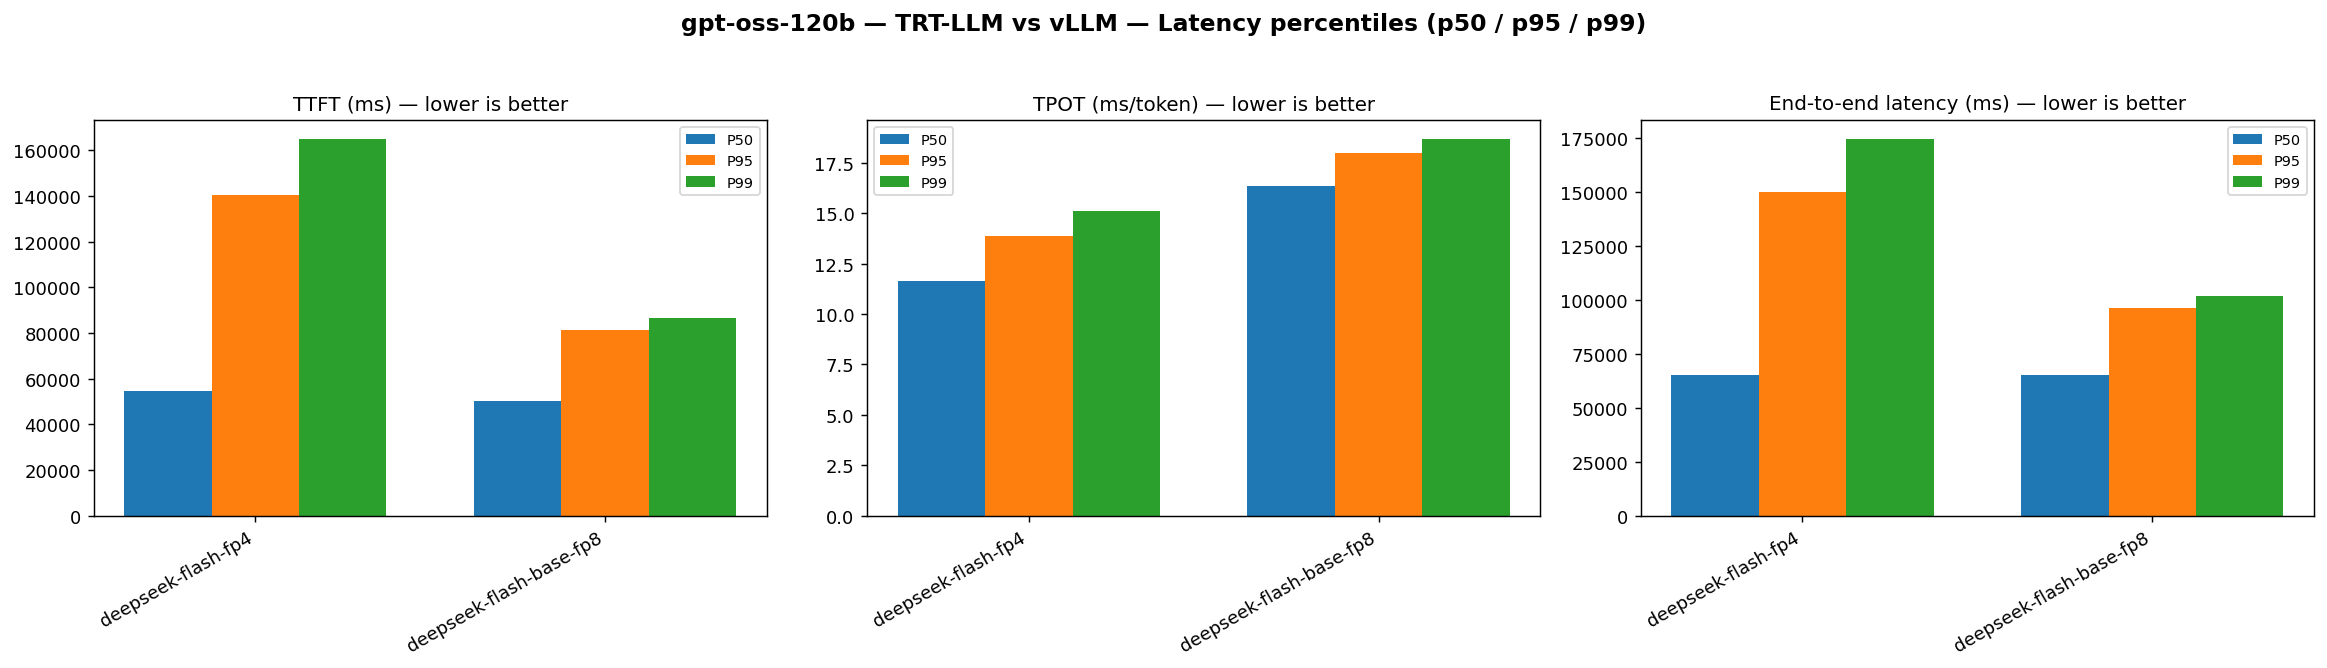
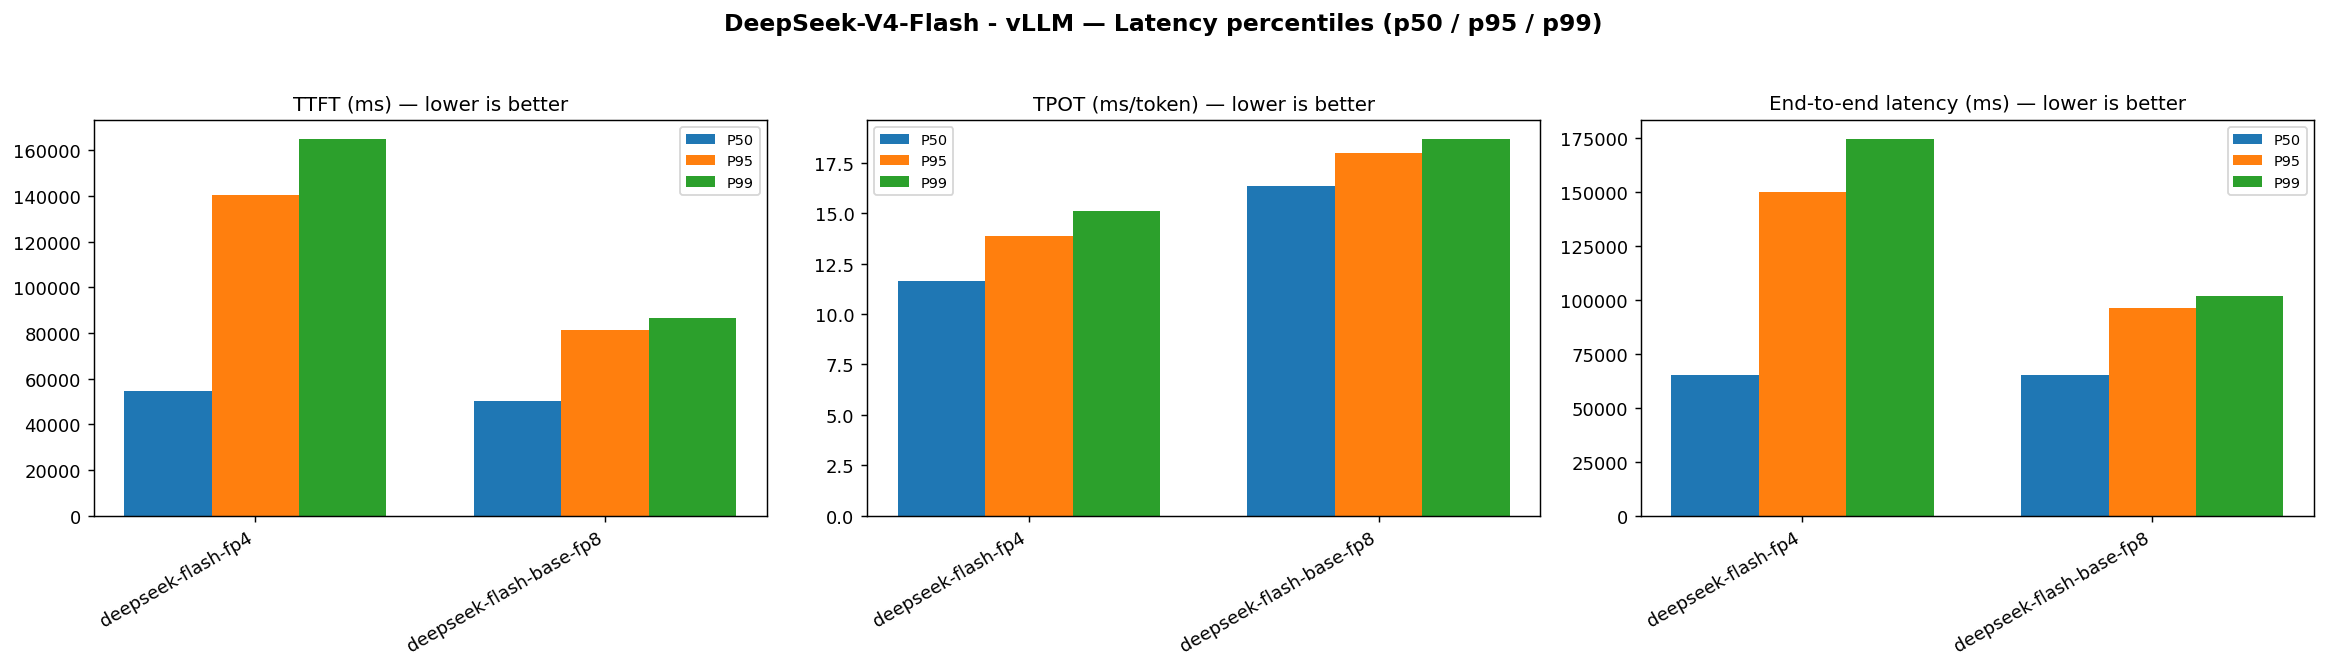
wip

Changed region(s): [[0.2785, 0.0, 0.7116, 0.0599]]

diff --git a/bench-analysis/output/deepseek-flash-10062026/README.md b/bench-analysis/output/deepseek-flash-10062026/README.md
@@ -1,0 +1,120 @@
+# DeepSeek-V4-Flash — Báo cáo benchmark vLLM (10/06/2026)
+
+So sánh hai biến thể model **DeepSeek-V4-Flash** trên stack **vLLM disaggregated** (prefill/decode tách rời, KV transfer qua NixlConnector) trên hạ tầng DGX-H200.
+
+| Config | Model weights | Quantization | Topology | Run ID |
+|---|---|---|---|---|
+| `deepseek-flash-fp4` | `DeepSeek-V4-Flash` | FP8 weights + FP8 KV cache | 2-node PD (prefill hgx46, decode hgx47), DP=8 | `20260610T075958` |
+| `deepseek-flash-base-fp8` | `DeepSeek-V4-Flash-Base` | FP8 weights + FP8 KV cache | Single-node PD (hgx47), DP=4 prefill | `20260611T015457` |
+
+Backend: **vLLM v0.22.0** · Serving: **Disaggregated** · KV manager: **Native (Nixl)**
+
+---
+
+## Kịch bản load test
+
+Cả hai run dùng cùng workload multi-turn:
+
+| Tham số | Giá trị |
+|---|---|
+| Số client / conversation | 40 / 40 |
+| Số turn mỗi conversation | 30 |
+| Turn đầu (prefix) | 20 000 + 10 000 token ngẫu nhiên ≈ **30 000 token** |
+| Turn tiếp theo | **2 048 token** / turn |
+| Output mỗi request | **900 token** (cố định) |
+| Request rate | Không giới hạn (burst tối đa) |
+| Streaming | Bật |
+
+Workload mô phỏng hội thoại dài với context lớn — phù hợp đánh giá prefill nặng và KV cache multi-turn.
+
+---
+
+## Kết quả tổng hợp
+
+| Config | Requests | Runtime (s) | RPS | Out tok/s | TTFT p50 (ms) | TTFT p95 (ms) | TPOT mean (ms) | E2E p50 (ms) | E2E p95 (ms) |
+|---|---:|---:|---:|---:|---:|---:|---:|---:|---:|
+| `deepseek-flash-fp4` | 958 | 2 241.8 | 0.427 | 384.5 | 54 661 | 140 487 | 11.92 | 65 312 | 150 012 |
+| `deepseek-flash-base-fp8` | 1 200 | 1 939.8 | 0.619 | 556.6 | 50 063 | 81 205 | 16.44 | 65 087 | 96 121 |
+
+> **Lưu ý hoàn thành:** run `deepseek-flash-fp4` chỉ hoàn tất **15/40 conversation** (958/1 200 request dự kiến), nhiều request bị timeout trong điều kiện tải cao. Run `deepseek-flash-base-fp8` hoàn tất đủ **40/40 conversation**. Khi so sánh throughput và tail latency cần tính đến sự khác biệt này.
+
+---
+
+## Phân tích
+
+### Throughput
+
+`deepseek-flash-base-fp8` vượt trội rõ rệt về throughput hệ thống:
+
+- **Runtime** giảm ~13% (2 242 s → 1 940 s)
+- **RPS** tăng ~45% (0.43 → 0.62 req/s)
+- **Output throughput** tăng ~45% (385 → 557 tok/s)
+
+![Throughput & system-level metrics](images/plot_throughput.png)
+
+### Latency — trade-off TTFT vs TPOT
+
+Hai config thể hiện profile latency đối lập:
+
+**Time to First Token (TTFT)** — `base-fp8` tốt hơn, đặc biệt ở tail:
+
+| Percentile | fp4 (ms) | base-fp8 (ms) | Cải thiện |
+|---:|---:|---:|---:|
+| p50 | 54 661 | 50 063 | ~8% |
+| p95 | 140 487 | 81 205 | ~42% |
+| p99 | 164 997 | 86 596 | ~48% |
+
+**Time Per Output Token (TPOT)** — `fp4` nhanh hơn đáng kể khi đã bắt đầu decode:
+
+| Percentile | fp4 (ms/tok) | base-fp8 (ms/tok) | fp4 nhanh hơn |
+|---:|---:|---:|---:|
+| mean | 11.92 | 16.44 | ~27% |
+| p95 | 13.86 | 17.97 | ~23% |
+
+**End-to-end latency:**
+
+- **p50** gần tương đương (~65 s) — phần lớn thời gian là generate 900 token.
+- **p95/p99** — `base-fp8` ổn định hơn nhiều: p95 giảm ~36% (150 s → 96 s), p99 giảm ~42% (174 s → 101 s).
+
+![Latency percentiles](images/plot_latency_percentiles.png)
+
+Phân phối CDF cho thấy rõ sự tách biệt: `base-fp8` thắng ở TTFT (đường CDF dịch trái), `fp4` thắng ở TPOT.
+
+![Per-request latency distributions](images/plot_distributions.png)
+
+### Trade-off throughput vs tail latency
+
+Trên biểu đồ throughput (trục X) vs E2E p95 (trục Y), `deepseek-flash-base-fp8` nằm ở vùng tối ưu (góc dưới-phải): throughput cao hơn ~45% đồng thời tail latency thấp hơn ~36%.
+
+![Throughput vs tail-latency trade-off](images/plot_tradeoff.png)
+
+---
+
+## Kết luận
+
+| Tiêu chí | Khuyến nghị |
+|---|---|
+| **Throughput tổng thể & độ ổn định** | `deepseek-flash-base-fp8` — nhanh hơn, hoàn thành đủ workload, tail latency thấp |
+| **TTFT / phản hồi đầu** | `deepseek-flash-base-fp8` — p95 TTFT thấp hơn ~42% |
+| **Tốc độ generate (TPOT)** | `deepseek-flash-fp4` — ~23–27% nhanh hơn mỗi output token |
+| **Độ tin cậy dưới tải cao** | `deepseek-flash-base-fp8` — hoàn tất 100% conversation; fp4 bị timeout một phần |
+
+**Tóm lại:** Với workload multi-turn context dài (30k token turn đầu, 40 client đồng thời), **`DeepSeek-V4-Flash-Base` + FP8 trên topology single-node** cho kết quả tổng thể tốt hơn `DeepSeek-V4-Flash` trên topology 2-node. Mặc dù Flash variant decode nhanh hơn từng token, overhead TTFT cao và khả năng chịu tải kém hơn khiến throughput thực tế và tail latency kém hơn đáng kể.
+
+---
+
+## Hạn chế & bước tiếp theo
+
+1. **Không apples-to-apples hoàn toàn** — khác topology (2-node vs single-node), khác DP size (8 vs 4), và mức hoàn thành workload.
+2. **Cần rerun `deepseek-flash-fp4`** với cùng topology hoặc tăng timeout để có 1 200 request đầy đủ, giúp so sánh công bằng hơn.
+3. Chưa đo chất lượng output (accuracy/perplexity) — chỉ đánh giá hiệu năng serving.
+4. Có thể thử thêm: aggregated serving, KVBM, sweep concurrency (10/20/40 client).
+
+---
+
+## Tài liệu tham chiếu
+
+- Cấu hình phân tích: [`configs/deepseek-flash-10062026.json`](../../configs/deepseek-flash-10062026.json)
+- Dữ liệu thô: `deepseek-v4-flash/10062026-result/{20260610T075958,20260611T015457}/perf/`
+- YAML deploy: `deepseek-v4-flash/disagg-vllm-native.yaml` (fp4), `disagg-vllm-native-single-node.yaml` (base-fp8)
+- Metrics JSON: [`summary.json`](summary.json)